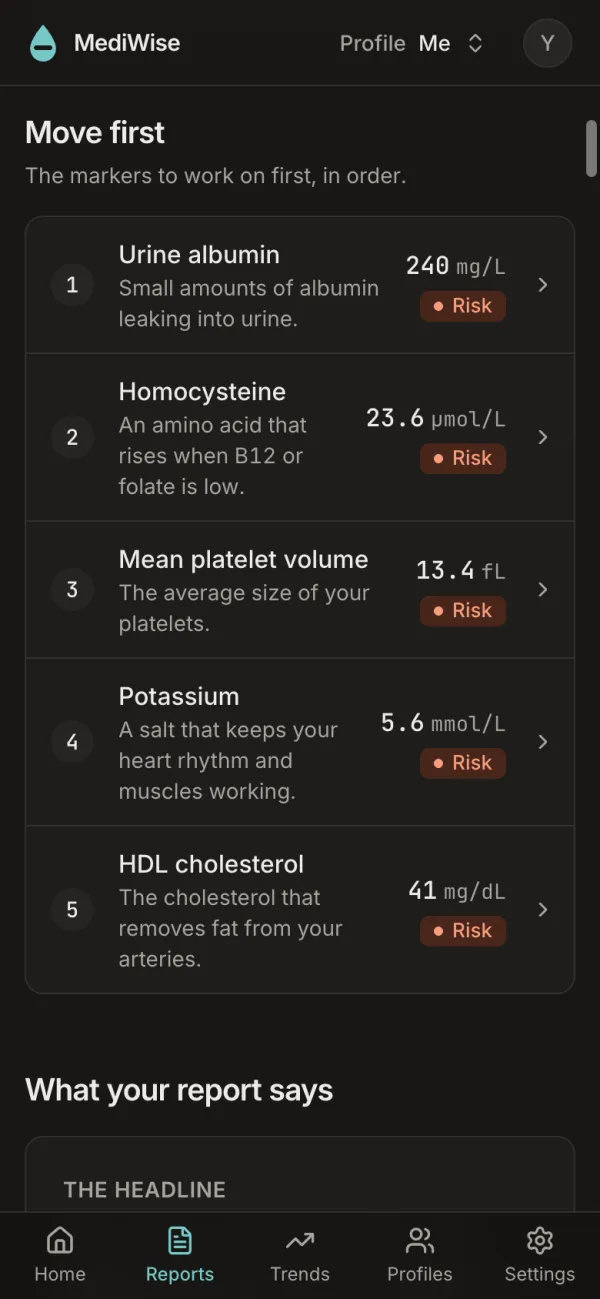
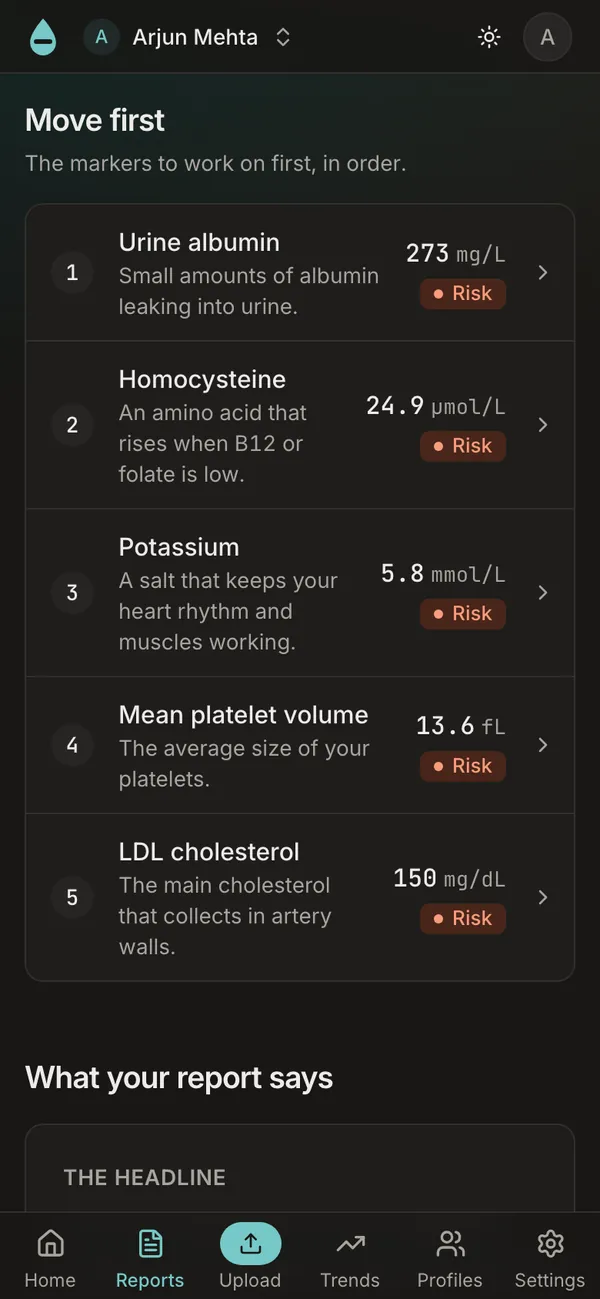
feat(landing): recapture every screen on the demo account and add the history section (MEDI-87)

diff --git a/apps/landing/src/sections/feature-story.tsx b/apps/landing/src/sections/feature-story.tsx
@@ -6,25 +6,25 @@ const scenes: Scene[] = [
     title: "A line for your doctor",
     body: "MediWise copies the words from your ECG, ultrasound and X-ray reports. When a line names a mass, a nodule, a stone or a similar finding, MediWise shows that line first. It does not explain the line. It tells you to ask your doctor.",
     screen: "alert",
-    alt: "The studies on a report: an ECG, a chest X-ray and an abdomen ultrasound, each with its printed impression.",
+    alt: "Findings: the ultrasound line about a 6 mm thyroid nodule comes first. It tells you to ask your doctor.",
   },
   {
     title: "What changed since your last visit",
     body: "Findings compare this report with your last one. You see which markers improved, which became worse, and which results go together.",
     screen: "findings",
-    alt: "Findings: fatty liver on the scan, TSH worse since January 2024, Vitamin B12 worse since January 2024.",
+    alt: "Findings: LDL cholesterol, homocysteine and urine albumin are worse since March 2024.",
   },
   {
     title: "Your score, and what to move first",
     body: "Fixed rules score each report, so the same values always give the same score. MediWise then puts the markers to work on first in order.",
     screen: "move-first",
-    alt: "Move first: urine albumin, homocysteine, mean platelet volume, potassium and HDL cholesterol, in order.",
+    alt: "Move first: urine albumin, homocysteine, potassium, mean platelet volume and LDL cholesterol, in order.",
   },
   {
     title: "Questions for your doctor",
     body: "MediWise writes questions from your results. Copy them and take them to your next visit.",
     screen: "questions",
-    alt: "Eight questions for the doctor, with a button to copy all of them.",
+    alt: "Six questions for the doctor, with a button to copy all of them.",
   },
 ];
 
@@ -33,7 +33,7 @@ export function FeatureStory() {
     <section aria-labelledby="story-title" className="border-t bg-sidebar">
       <div className="mx-auto max-w-content px-4 py-12 md:px-8 md:py-20">
         <SectionHeader id="story-title" eyebrow="Inside a report" title="What MediWise shows you">
-          Every screen on this page is from the MediWise app. The values come from a real report.
+          Every screen on this page is from the MediWise app. The person and the values are made up.
         </SectionHeader>
         <div className="mt-10">
           <Story scenes={scenes} />

diff --git a/apps/landing/src/sections/how-it-works.tsx b/apps/landing/src/sections/how-it-works.tsx
@@ -1,8 +1,8 @@
-import { Phone, Screen, type ScreenName } from "@/components/phone";
+import { PhoneSteps, type PhoneStep } from "@/components/phone-steps";
 import { SectionHeader } from "@/components/section-header";
 import { facts } from "@/lib/facts";
 
-const steps: { title: string; body: string; screen: ScreenName; alt: string }[] = [
+const steps: PhoneStep[] = [
   {
     title: "Upload",
     body: `Add your report as a PDF or as photos. You can add up to ${facts.maxFiles} files in one report.`,
@@ -11,7 +11,7 @@ const steps: { title: string; body: string; screen: ScreenName; alt: string }[] 
   },
   {
     title: "Understand",
-    body: "MediWise explains every marker in plain English. It scores each marker against ranges for your age, sex and ancestry.",
+    body: "MediWise explains every marker in plain English or Hindi. It scores each marker against ranges for your age, sex and ancestry.",
     screen: "marker",
     alt: "The Vitamin B12 page: what the marker is, the value, and where it sits in the range.",
   },
@@ -37,20 +37,7 @@ export function HowItWorks() {
       >
         You do not need to know what a marker means. MediWise reads the report and tells you.
       </SectionHeader>
-      <ol className="mt-14 grid gap-12 md:grid-cols-3 md:gap-8">
-        {steps.map((step, index) => (
-          <li key={step.title} className="reveal flex flex-col">
-            <p className="font-mono text-sm text-primary">0{index + 1}</p>
-            <h3 className="mt-2 text-xl font-semibold">{step.title}</h3>
-            <p className="mt-2 text-muted-foreground">{step.body}</p>
-            <div className="mt-8 px-6 md:px-2 lg:px-6">
-              <Phone className="mx-auto max-w-[260px]">
-                <Screen name={step.screen} alt={step.alt} />
-              </Phone>
-            </div>
-          </li>
-        ))}
-      </ol>
+      <PhoneSteps steps={steps} />
     </section>
   );
 }

diff --git a/apps/landing/src/sections/history.tsx b/apps/landing/src/sections/history.tsx
@@ -1,0 +1,39 @@
+import { PhoneSteps, type PhoneStep } from "@/components/phone-steps";
+import { SectionHeader } from "@/components/section-header";
+import { facts } from "@/lib/facts";
+
+const steps: PhoneStep[] = [
+  {
+    title: "A repeat scan can settle a line",
+    body: `MediWise links two reports when both have the same study within ${facts.repeatStudyDays} days. You can undo the link. When the later report has no alert line, the earlier line moves to Settled.`,
+    screen: "settled",
+    alt: "The Settled block: a 34 mm cyst on 10 Feb 2025. The repeat ultrasound of 17 Mar 2025 shows no cyst.",
+  },
+  {
+    title: "One episode for one workup",
+    body: "MediWise finds reports that may belong together. Give them a name, such as thyroid tests. The episode shows each report in date order and the markers that repeat.",
+    screen: "episode",
+    alt: "An episode timeline: five reports from 3 Feb 2025 to 17 Mar 2025, oldest first.",
+  },
+  {
+    title: "Your report in Hindi",
+    body: "Choose Hindi in Settings or on the sign-in page. The app, the marker explanations and the report summary show in Hindi. Marker names and printed lines stay as the lab prints them.",
+    screen: "hindi",
+    alt: "The report summary in Hindi. Marker names such as Urine albumin and Homocysteine stay in English.",
+  },
+];
+
+export function History() {
+  return (
+    <section
+      aria-labelledby="history-title"
+      className="mx-auto max-w-content px-4 py-12 md:px-8 md:py-20"
+    >
+      <SectionHeader id="history-title" eyebrow="Across reports" title="Every report in one history">
+        Scans, repeat tests and second opinions arrive weeks apart. MediWise keeps them together, in
+        date order.
+      </SectionHeader>
+      <PhoneSteps steps={steps} />
+    </section>
+  );
+}

diff --git a/apps/landing/src/components/phone-steps.tsx b/apps/landing/src/components/phone-steps.tsx
@@ -1,0 +1,22 @@
+import { Phone, Screen, type ScreenName } from "@/components/phone";
+
+export type PhoneStep = { title: string; body: string; screen: ScreenName; alt: string };
+
+export function PhoneSteps({ steps }: { steps: PhoneStep[] }) {
+  return (
+    <ol className="mt-14 grid gap-12 md:grid-cols-3 md:gap-8">
+      {steps.map((step, index) => (
+        <li key={step.title} className="reveal flex flex-col">
+          <p className="font-mono text-sm text-primary">0{index + 1}</p>
+          <h3 className="mt-2 text-xl font-semibold">{step.title}</h3>
+          <p className="mt-2 text-muted-foreground">{step.body}</p>
+          <div className="mt-8 px-6 md:px-2 lg:px-6">
+            <Phone className="mx-auto max-w-[260px]">
+              <Screen name={step.screen} alt={step.alt} />
+            </Phone>
+          </div>
+        </li>
+      ))}
+    </ol>
+  );
+}

diff --git a/apps/landing/src/lib/facts.ts b/apps/landing/src/lib/facts.ts
@@ -1,4 +1,12 @@
-import { categories, derived, markers, patterns, sources, type Category } from "@mediwise/engine";
+import {
+  categories,
+  derived,
+  markers,
+  patterns,
+  repeatStudyDays,
+  sources,
+  type Category,
+} from "@mediwise/engine";
 import { maxFileBytes, maxFiles, maxProfilesPerUser, maxTotalBytes } from "@mediwise/shared";
 import { paymentPacks } from "../../../api/src/modules/payments/payments.config";
 
@@ -33,6 +41,7 @@ export const facts = {
   maxFileMb: megabytes(maxFileBytes),
   maxTotalMb: megabytes(maxTotalBytes),
   maxProfiles: maxProfilesPerUser,
+  repeatStudyDays,
   firstPack,
   cheapest,
   cheapestPaise: Math.round(cheapest.amount / cheapest.credits),

diff --git a/apps/landing/src/lib/facts.test.ts b/apps/landing/src/lib/facts.test.ts
@@ -1,4 +1,4 @@
-import { derived, markers } from "@mediwise/engine";
+import { derived, markers, repeatStudyDays } from "@mediwise/engine";
 import { maxFiles } from "@mediwise/shared";
 import { expect, test } from "vitest";
 import { paymentPacks } from "../../../api/src/modules/payments/payments.config";
@@ -22,6 +22,7 @@ test("every price on the page comes from payments.config.ts", () => {
 test("the counts on the page are the catalog's own counts", () => {
   expect(facts.markers).toBe(markers.length);
   expect(facts.maxFiles).toBe(maxFiles);
+  expect(facts.repeatStudyDays).toBe(repeatStudyDays);
 });
 
 test("the marquee shows only marker names from the catalog", () => {

diff --git a/apps/landing/src/app/page.tsx b/apps/landing/src/app/page.tsx
@@ -4,6 +4,7 @@ import { Faq } from "@/sections/faq";
 import { FeatureStory } from "@/sections/feature-story";
 import { FinalCta, Footer } from "@/sections/footer";
 import { Hero } from "@/sections/hero";
+import { History } from "@/sections/history";
 import { HowItWorks } from "@/sections/how-it-works";
 import { MarkerMarquee } from "@/sections/marquee";
 import { Nav } from "@/sections/nav";
@@ -26,6 +27,7 @@ export default function Home() {
         <MarkerMarquee />
         <HowItWorks />
         <FeatureStory />
+        <History />
         <Comparison />
         <Bento />
         <Numbers />

diff --git a/apps/landing/src/sections/comparison.tsx b/apps/landing/src/sections/comparison.tsx
@@ -3,7 +3,7 @@ import { SectionHeader } from "@/components/section-header";
 import { facts } from "@/lib/facts";
 
 const rows = [
-  { label: "Explained", pdf: "Test names and numbers", us: "Every marker in plain English" },
+  { label: "Explained", pdf: "Test names and numbers", us: "Every marker in plain English or Hindi" },
   { label: "Scored", pdf: "The lab's printed range", us: "Ranges for your age, sex and ancestry" },
   { label: "Tracked", pdf: "One visit in each file", us: "Each marker across your visits" },
   {

diff --git a/apps/landing/src/components/phone.tsx b/apps/landing/src/components/phone.tsx
@@ -2,7 +2,17 @@ import type { ReactNode } from "react";
 import { cn } from "@/lib/utils";
 
 export type ScreenName =
-  "report" | "upload" | "marker" | "trends" | "alert" | "findings" | "move-first" | "questions";
+  | "report"
+  | "upload"
+  | "marker"
+  | "trends"
+  | "alert"
+  | "findings"
+  | "move-first"
+  | "questions"
+  | "settled"
+  | "episode"
+  | "hindi";
 
 export function Phone({ children, className }: { children: ReactNode; className?: string }) {
   return (

diff --git a/apps/landing/src/sections/hero.tsx b/apps/landing/src/sections/hero.tsx
@@ -51,7 +51,7 @@ export function Hero() {
               <Screen
                 name="report"
                 priority
-                alt="A MediWise report: 65 of 80 markers sit in the calibrated ranges, score 87, and a B12 deficiency pattern."
+                alt="A MediWise report: 67 of 81 markers sit in the calibrated ranges, and urine albumin is the one to move first. Score 89, Platinum."
               />
             </Phone>
           </div>
